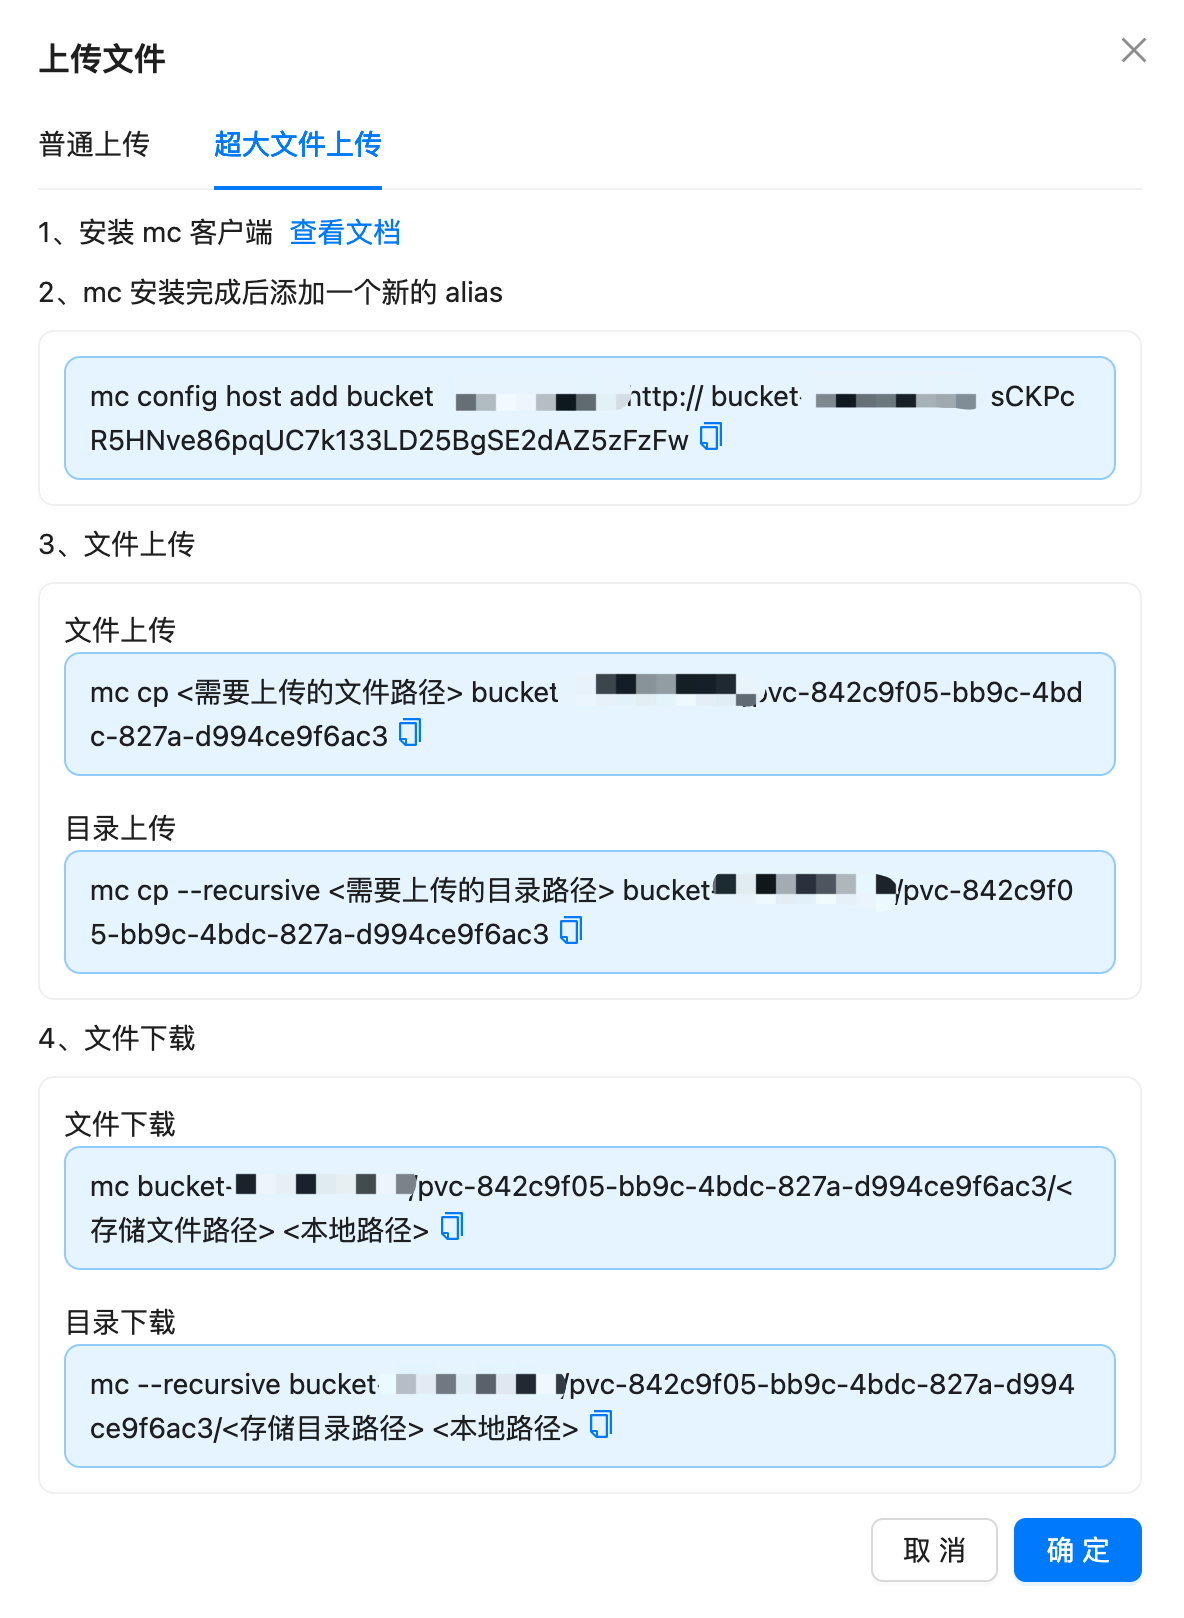
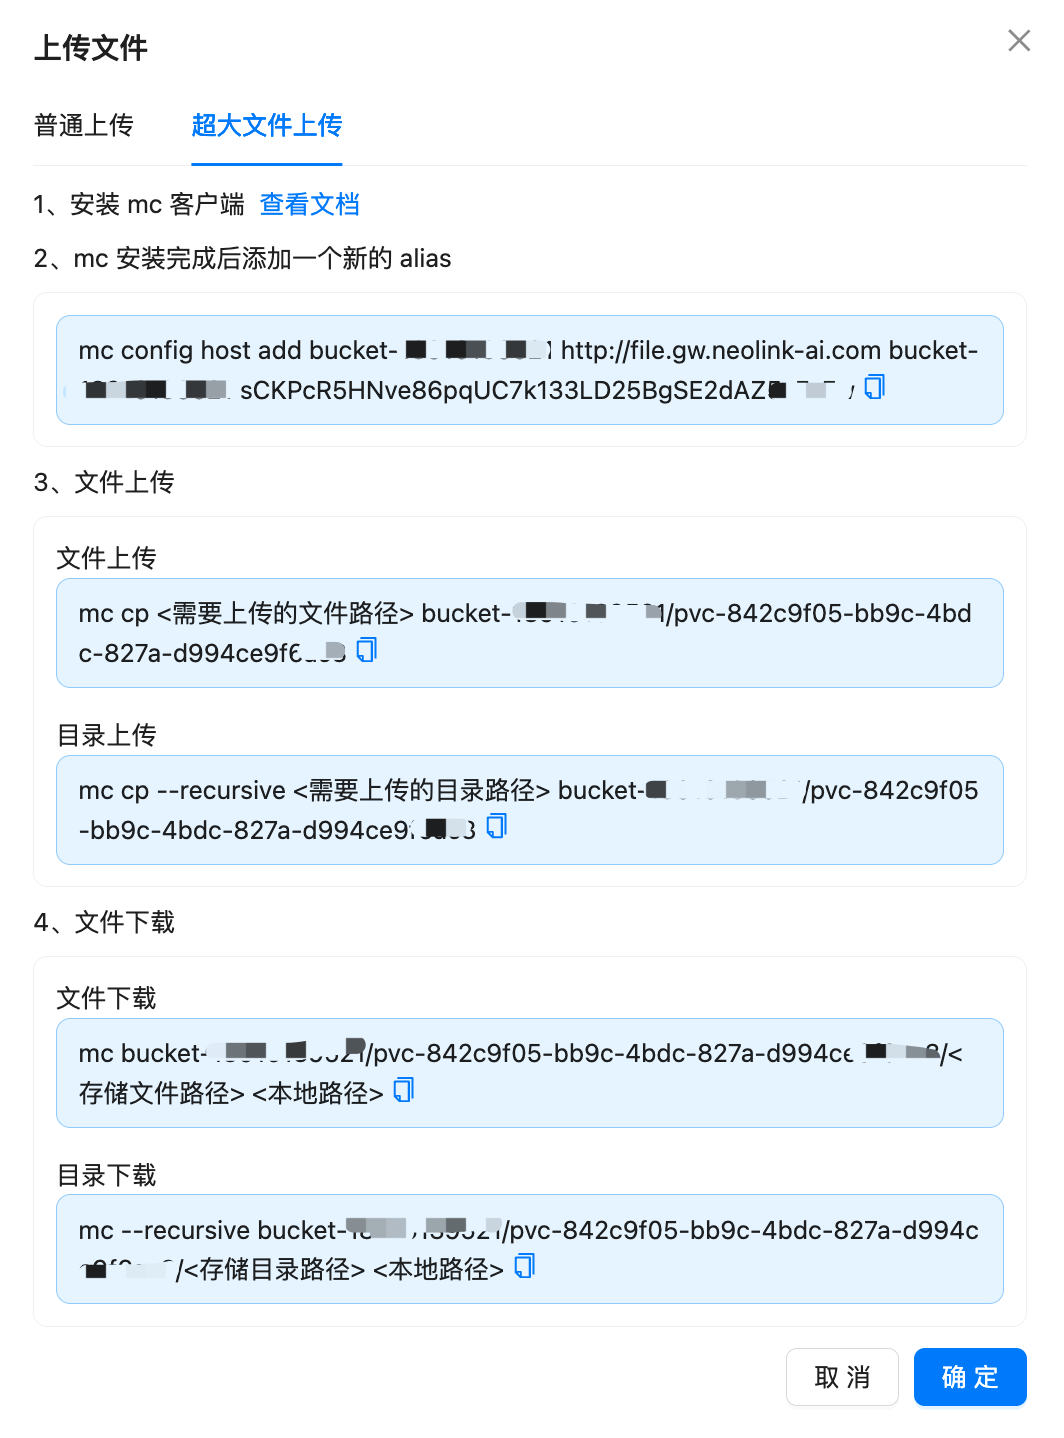
fix

diff --git a/i18n/zh-Hans/docusaurus-plugin-content-docs/current/DataStorage/createstorage.md b/i18n/zh-Hans/docusaurus-plugin-content-docs/current/DataStorage/createstorage.md
@@ -50,6 +50,11 @@ sidebar_label: 存储管理
     mc -version
     ```
 
+    - windows-amd64
+      - 点击下载二进制文件 。
+      - 将下载好的二进制文件名称改为`mc.exe`。
+      - 进入到 mc.exe 目录执行相应操作，注意，示例中的 `mc` 命令在 windows下 需替换成 `mc.exe`。
+    
     - linux-arm64
 
     ```bash
@@ -62,7 +67,7 @@ sidebar_label: 存储管理
 2. 添加 alias
 
     ```bash
-    mc config host add <别名> <服务器URL> <访问密钥> <秘密密钥>
+    mc config host add <桶名> <URL> <Access key> <Secret access key>
     ```
 
     示例：
@@ -76,25 +81,25 @@ sidebar_label: 存储管理
    - 单个文件上传
 
    ```bash
-   mc cp <需要上传的文件路径> <别名>/<存储桶路径>
+   mc cp <需要上传的文件路径> <桶名>/<命名空间>
    ```
 
    示例：
 
    ```bash
-   mc config host add bucket-xxx http://file.gw.neolink-ai.com bucket-xxx sCKPcR5HNve86pqUC7k133LD25BgSE2dAZ5zxxxx
+   mc cp <需要上传的文件路径> bucket-xxxx/pvc-842c9f05-bb9c-4bdc-827a-d994ce9fxxxx
    ```
 
 - 目录上传
   
     ```bash
-    mc cp --recursive <需要上传的目录路径> <别名>/<存储桶路径>
+    mc cp --recursive <需要上传的目录路径> <桶名>/<命名空间>
     ```
 
     示例：
 
     ```bash
-    mc config host add bucket-xxx http://file.gw.neolink-ai.com bucket-xxx sCKPcR5HNve86pqUC7k133LD25BgSE2dAZ5zxxxx
+    mc cp --recursive <需要上传的目录路径> bucket-xxxx/pvc-842c9f05-bb9c-4bdc-827a-d994ce9fxxxx
     ```
 
 4. 下载
@@ -102,25 +107,25 @@ sidebar_label: 存储管理
    - 单个文件下载
 
    ```bash
-   mc cp <别名>/<存储路径> <本地路径>
+   mc <桶名>/<命名空间>/<存储文件路径> <本地路径>
    ```
 
    示例：
 
    ```bash
-   mc config host add bucket-xxx http://file.gw.neolink-ai.com bucket-xxx sCKPcR5HNve86pqUC7k133LD25BgSE2dAZ5zxxxx
+   mc bucket-xxxx/pvc-842c9f05-bb9c-4bdc-827a-d994ce9fxxxx/<存储文件路径> <本地路径>
    ```
 
    - 目录
      
    ```bash
-   mc cp --recursive <别名>/<存储目录路径> <本地路径>
+   mc cp --recursive <桶名>/<命名空间>/<存储目录路径> <本地路径>
    ```
 
     示例：
 
     ```bash
-    mc --recursive bucket-xxx/pvc-842c9f05-bb9c-4bdc-827a-d994ce9fxxxx/<存储目录路径> <本地路径>
+    mc --recursive bucket-xxxx/pvc-842c9f05-bb9c-4bdc-827a-d994ce9fxxxx/<存储目录路径> <本地路径>
     ```
 
 
